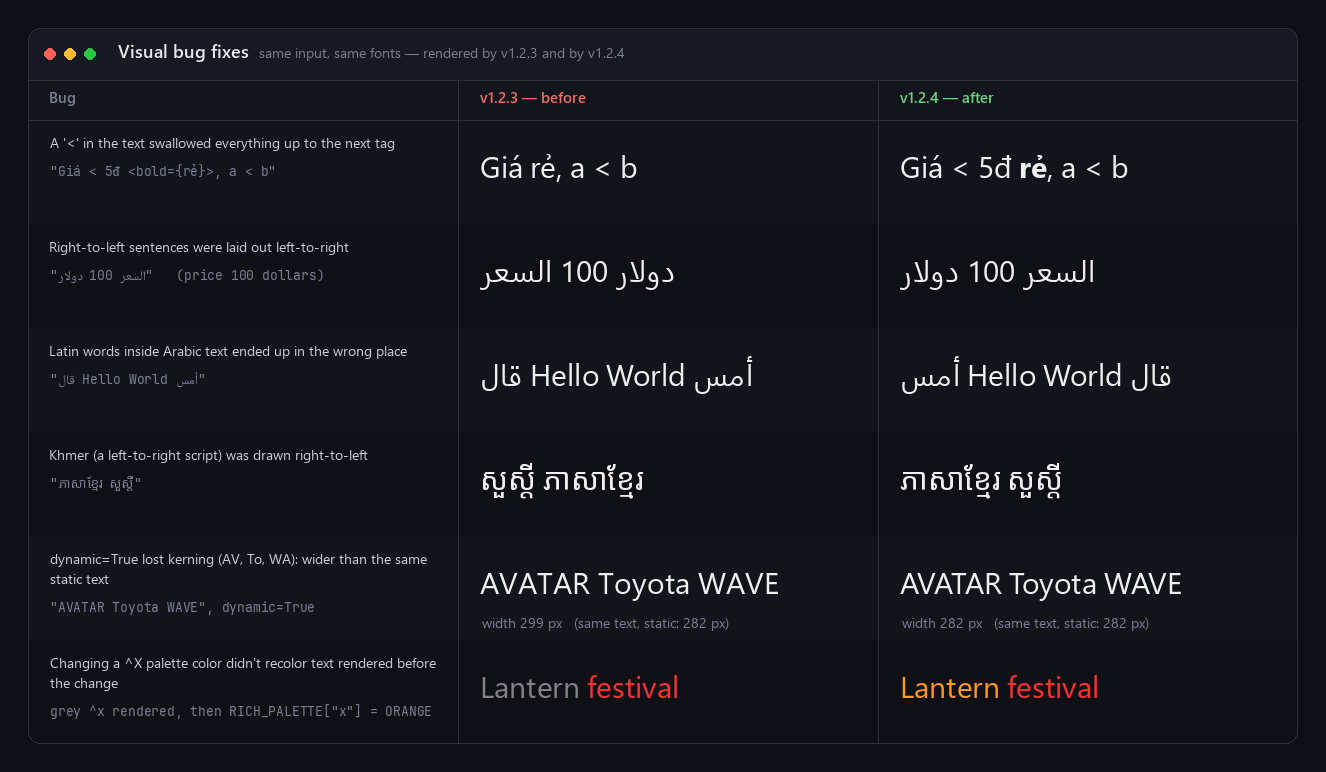
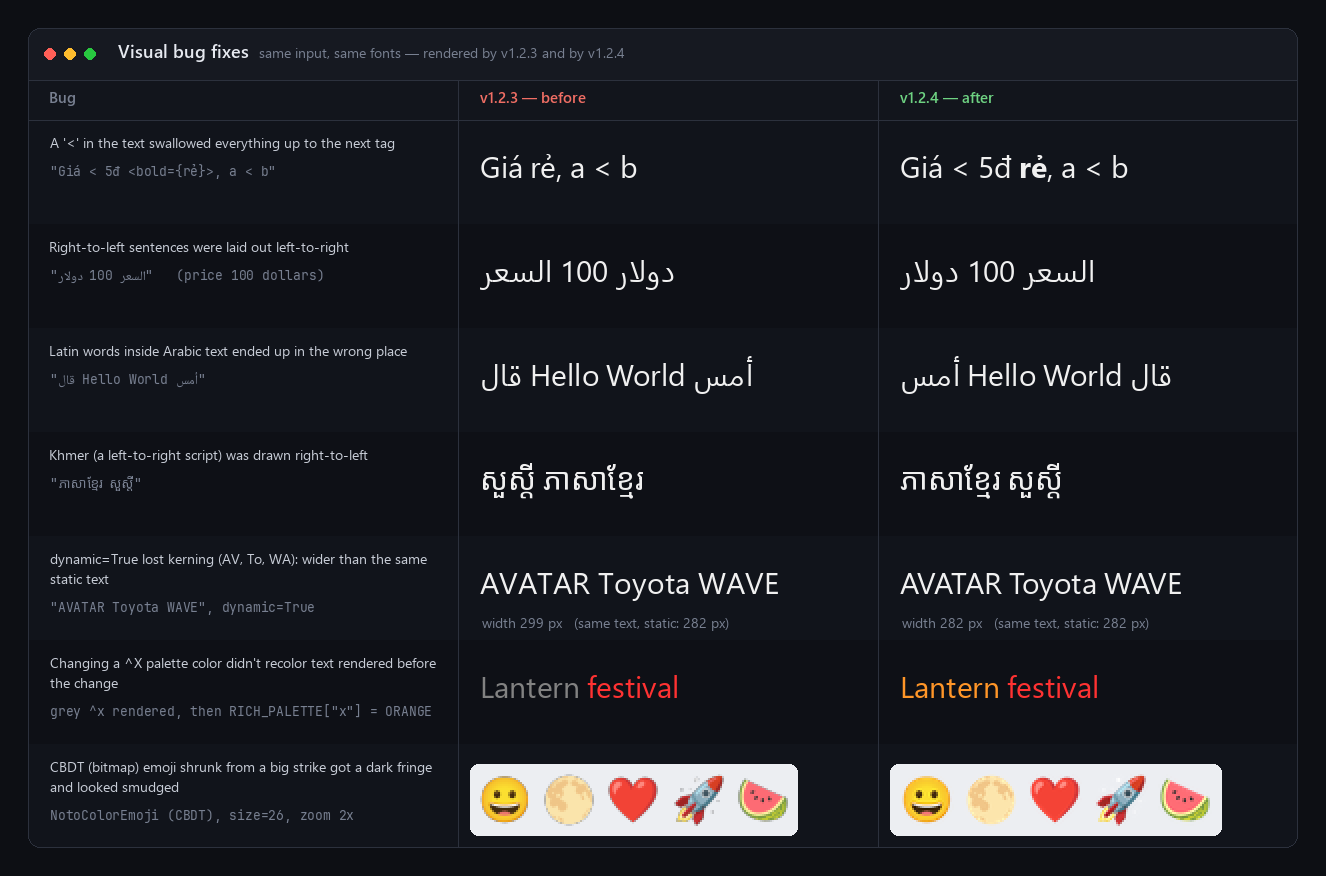
CBDT emoji: shrink strikes with Lanczos-3 on premultiplied alpha (no dark fringe)

diff --git a/dynamic_font/cbdt_render.c b/dynamic_font/cbdt_render.c
@@ -1,8 +1,122 @@
 #include "cbdt_render.h"
+#include <math.h>
 #include <stdlib.h>
 #include <string.h>
 
 #define FT_PIXEL_MODE_BGRA_VALUE 7
+#define CBDT_PI 3.14159265358979323846
+
+/* Lanczos-3 kernel. */
+static double lanczos3(double x) {
+    double px;
+    if (x < 0) x = -x;
+    if (x < 1e-8) return 1.0;
+    if (x >= 3.0) return 0.0;
+    px = CBDT_PI * x;
+    return 3.0 * sin(px) * sin(px / 3.0) / (px * px);
+}
+
+/* Lanczos-3 weights for resampling n_src samples to n_dst: output i reads
+ * source samples idx[i*taps .. +taps) with normalised weights wt[...]. When
+ * shrinking, the kernel is widened by the shrink factor so every source pixel
+ * is averaged in (no aliasing); edge samples are clamped. The table depends
+ * only on the two lengths, so it is built once per axis, not per row. */
+typedef struct { int taps; int* idx; float* wt; } LanczosTable;
+
+static int lanczos_table(int n_src, int n_dst, LanczosTable* t) {
+    double scale = (double)n_dst / (double)n_src;
+    double fs = scale < 1.0 ? 1.0 / scale : 1.0;
+    double support = 3.0 * fs;
+    int i, j;
+    t->taps = (int)ceil(support) * 2 + 2;
+    t->idx = (int*)malloc((size_t)n_dst * t->taps * sizeof(int));
+    t->wt = (float*)malloc((size_t)n_dst * t->taps * sizeof(float));
+    if (!t->idx || !t->wt) { free(t->idx); free(t->wt); return 0; }
+    for (i = 0; i < n_dst; i++) {
+        double center = (i + 0.5) / scale - 0.5, wsum = 0;
+        int lo = (int)floor(center - support);
+        int* idx = t->idx + (size_t)i * t->taps;
+        float* wt = t->wt + (size_t)i * t->taps;
+        for (j = 0; j < t->taps; j++) {
+            int s = lo + j;
+            double w = lanczos3((s - center) / fs);
+            idx[j] = s < 0 ? 0 : (s >= n_src ? n_src - 1 : s);
+            wt[j] = (float)w;
+            wsum += w;
+        }
+        if (wsum != 0.0)
+            for (j = 0; j < t->taps; j++) wt[j] = (float)(wt[j] / wsum);
+    }
+    return 1;
+}
+
+/* One separable pass over premultiplied float RGBA: `src` samples (stride
+ * `src_step` floats, 4 channels each) become t's n_dst samples of `dst`
+ * (stride `dst_step`). */
+static void lanczos_pass(const LanczosTable* t, int n_dst, const float* src, int src_step,
+                         float* dst, int dst_step) {
+    int i, j;
+    for (i = 0; i < n_dst; i++) {
+        const int* idx = t->idx + (size_t)i * t->taps;
+        const float* wt = t->wt + (size_t)i * t->taps;
+        float r = 0, g = 0, b = 0, a = 0;
+        for (j = 0; j < t->taps; j++) {
+            const float* p = src + (size_t)idx[j] * src_step;
+            float w = wt[j];
+            r += w * p[0]; g += w * p[1]; b += w * p[2]; a += w * p[3];
+        }
+        dst[(size_t)i * dst_step + 0] = r; dst[(size_t)i * dst_step + 1] = g;
+        dst[(size_t)i * dst_step + 2] = b; dst[(size_t)i * dst_step + 3] = a;
+    }
+}
+
+/* Premultiplied BGRA (FreeType's CBDT output) -> resized, straight RGBA.
+ * Resampling has to happen while the alpha is still premultiplied: averaging
+ * straight-alpha pixels pulls the black of the transparent surroundings into
+ * the edge colors and leaves a dark fringe around every emoji. */
+static unsigned char* bgra_premul_resize(const FT_Bitmap* bmp, int dw, int dh) {
+    int sw = (int)bmp->width, sh = (int)bmp->rows, x, y, k;
+    float *src = NULL, *tmp = NULL, *dst = NULL;
+    unsigned char* out = NULL;
+    LanczosTable tx = {0, NULL, NULL}, ty = {0, NULL, NULL};
+
+    src = (float*)malloc((size_t)sw * sh * 4 * sizeof(float));
+    tmp = (float*)malloc((size_t)dw * sh * 4 * sizeof(float));
+    dst = (float*)malloc((size_t)dw * dh * 4 * sizeof(float));
+    out = (unsigned char*)malloc((size_t)dw * dh * 4);
+    if (!src || !tmp || !dst || !out || !lanczos_table(sw, dw, &tx) || !lanczos_table(sh, dh, &ty)) {
+        free(src); free(tmp); free(dst); free(out);
+        free(tx.idx); free(tx.wt); free(ty.idx); free(ty.wt);
+        return NULL;
+    }
+
+    for (y = 0; y < sh; y++) {
+        const unsigned char* row = bmp->buffer + y * bmp->pitch;
+        for (x = 0; x < sw; x++) {
+            float* p = src + ((size_t)y * sw + x) * 4;
+            p[0] = row[x * 4 + 2]; p[1] = row[x * 4 + 1]; p[2] = row[x * 4 + 0]; p[3] = row[x * 4 + 3];
+        }
+    }
+    for (y = 0; y < sh; y++)                                 /* horizontal */
+        lanczos_pass(&tx, dw, src + (size_t)y * sw * 4, 4, tmp + (size_t)y * dw * 4, 4);
+    for (x = 0; x < dw; x++)                                 /* vertical */
+        lanczos_pass(&ty, dh, tmp + (size_t)x * 4, dw * 4, dst + (size_t)x * 4, dw * 4);
+    free(tx.idx); free(tx.wt); free(ty.idx); free(ty.wt);
+
+    for (y = 0; y < dh * dw; y++) {
+        float* p = dst + (size_t)y * 4;
+        double a = p[3] < 0 ? 0 : (p[3] > 255 ? 255 : p[3]);
+        unsigned char* o = out + (size_t)y * 4;
+        if (a < 0.5) { o[0] = o[1] = o[2] = o[3] = 0; continue; }
+        for (k = 0; k < 3; k++) {
+            double c = p[k] < 0 ? 0 : (p[k] > a ? a : p[k]);  /* Lanczos can overshoot */
+            o[k] = (unsigned char)(c * 255.0 / a + 0.5);
+        }
+        o[3] = (unsigned char)(a + 0.5);
+    }
+    free(src); free(tmp); free(dst);
+    return out;
+}
 
 int render_cbdt_glyph(
     FT_Face face,
@@ -40,8 +154,7 @@ int render_cbdt_glyph(
     if (face->num_fixed_sizes <= 0) return 5;
 
     /* Prefer the SMALLEST strike that is >= requested_size, so the
-     * caller's later smoothscale step (see the .pyx render_cbdt_*
-     * functions) always SHRINKS the bitmap rather than enlarging it.
+     * resize step below always SHRINKS the bitmap rather than enlarging it.
      * Downscaling a bitmap looks crisp (effectively averaging existing
      * detail down); upscaling has to invent pixels that were never
      * there and always looks soft/blurry by comparison — this is why
@@ -97,6 +210,25 @@ int render_cbdt_glyph(
 
     w = (int)bmp->width;
     h = (int)bmp->rows;
+
+    /* The strike's bitmap height rarely matches requested_size. Resize only
+     * when the mismatch is over 15% (a multi-strike font like Apple Color
+     * Emoji usually has a strike close enough to use 1:1, which is always
+     * the crispest); otherwise shrink it here, before un-premultiplying. */
+    if (requested_size > 0 && abs(h - requested_size) > (int)(requested_size * 0.15)) {
+        double scale = (double)requested_size / (double)h;
+        int dw = (int)(w * scale), dh = (int)(h * scale);
+        if (dw < 1) dw = 1;
+        if (dh < 1) dh = 1;
+        canvas = bgra_premul_resize(bmp, dw, dh);
+        if (!canvas) return 4;
+        *out_rgba = canvas;
+        *out_w = dw;
+        *out_h = dh;
+        *out_top = (int)(slot->bitmap_top * scale);
+        *out_left = (int)(slot->bitmap_left * scale);
+        return 0;
+    }
 
     canvas = (unsigned char*)malloc((size_t)(w * h * 4));
     if (!canvas) return 4;

diff --git a/docs/v1.2.4/make_before_after.py b/docs/v1.2.4/make_before_after.py
@@ -1,11 +1,14 @@
 """Makes 07_fixes_before_after.png: the same input rendered by v1.2.3 and by
 v1.2.4, side by side, for the bug fixes that change what gets drawn.
 
-    python make_before_after.py --old DIR [--new DIR] [--out DIR]
+    python make_before_after.py --old DIR [--new DIR] [--cbdt FONT] [--out DIR]
 
---old DIR   a folder containing the v1.2.3 dynamic_font (e.g. a v1.2.3.x wheel
-            unzipped there, or its site-packages).
---new DIR   the v1.2.4 dynamic_font (default: the installed one).
+--old DIR    a folder containing the v1.2.3 dynamic_font (e.g. a v1.2.3.x wheel
+             unzipped there, or its site-packages).
+--new DIR    the v1.2.4 dynamic_font (default: the installed one).
+--cbdt FONT  a CBDT (PNG bitmap) color emoji font, e.g. NotoColorEmoji.ttf from
+             github.com/googlefonts/noto-emoji (the one Linux distributions
+             ship). Adds the CBDT emoji row; without it that row is left out.
 
 Each engine renders every case in its own Python process (two versions of
 the same module can't be imported side by side); this process then lays the
@@ -30,7 +33,10 @@ CASES = {
     "kern_sta": ("AVATAR Toyota WAVE", {}),
     # rendered with ^x = grey, then ^x changed to orange and rendered again (see render_cases)
     "palette":  ("^xLantern ^1festival", {}),
+    # rendered with the --cbdt font as emoji_path, at 26 px, shown 2x (see render_cases)
+    "cbdt":     ("😀🌕❤🚀🍉", {}),
 }
+CBDT_SIZE, CBDT_ZOOM = 26, 2
 ROWS = [
     ("lt_sign", "A '<' in the text swallowed everything up to the next tag", '"Giá < 5đ <bold={rẻ}>, a < b"'),
     ("bidi1", "Right-to-left sentences were laid out left-to-right", '"السعر 100 دولار"   (price 100 dollars)'),
@@ -40,10 +46,12 @@ ROWS = [
      '"AVATAR Toyota WAVE", dynamic=True'),
     ("palette", "Changing a ^X palette color didn't recolor text rendered before the change",
      'grey ^x rendered, then RICH_PALETTE["x"] = ORANGE'),
+    ("cbdt", "CBDT (bitmap) emoji shrunk from a big strike got a dark fringe and looked smudged",
+     f'NotoColorEmoji (CBDT), size={CBDT_SIZE}, zoom {CBDT_ZOOM}x'),
 ]
 
 
-def render_cases(engine_dir, out_dir, fallback_dir):
+def render_cases(engine_dir, out_dir, fallback_dir, cbdt_font):
     """Runs in the child process: renders every case with the engine in engine_dir."""
     sys.path.insert(0, engine_dir)
     os.environ.setdefault("SDL_VIDEODRIVER", "dummy")
@@ -58,6 +66,12 @@ def render_cases(engine_dir, out_dir, fallback_dir):
     if palette is None:
         palette = df._core.RICH_PALETTE
     for name, (text, kw) in CASES.items():
+        if name == "cbdt":
+            if cbdt_font:
+                e = df.DynamicFont("Segoe UI", fallback_name=os.path.join(fallback_dir, "NotoSansCJK-Regular.ttc"),
+                                   fallback_dir=fallback_dir, emoji_path=cbdt_font)
+                pygame.image.save(e.render(text, CBDT_SIZE), os.path.join(out_dir, name + ".png"))
+            continue
         if name == "palette":
             palette["x"] = (130, 130, 130)                   # grey
             f.render(text, 30, (240, 240, 240), **kw)        # drawn (and cached) once...
@@ -68,9 +82,9 @@ def render_cases(engine_dir, out_dir, fallback_dir):
 
 def main():
     ap = argparse.ArgumentParser()
-    ap.add_argument("--old", required=True); ap.add_argument("--new")
+    ap.add_argument("--old", required=True); ap.add_argument("--new"); ap.add_argument("--cbdt", default="")
     ap.add_argument("--out", default=HERE)
-    ap.add_argument("--_render", nargs=3, help=argparse.SUPPRESS)
+    ap.add_argument("--_render", nargs=4, help=argparse.SUPPRESS)
     args = ap.parse_args()
     if args._render:
         render_cases(*args._render)
@@ -92,7 +106,8 @@ def main():
     for tag, engine in (("old", args.old), ("new", new_dir)):
         dirs[tag] = os.path.join(tmp, tag); os.makedirs(dirs[tag])
         subprocess.run([sys.executable, os.path.abspath(__file__), "--old", args.old,
-                        "--_render", engine, dirs[tag], fallback_dir], check=True)
+                        "--_render", engine, dirs[tag], fallback_dir, args.cbdt], check=True)
+    rows = [r for r in ROWS if r[0] != "cbdt" or args.cbdt]
 
     # ---- the card
     BG, CARD, EDGE = (13, 15, 20), (22, 25, 33), (44, 49, 61)
@@ -117,7 +132,7 @@ def main():
 
     LABEL_W, COL_W, ROW_H, PAD = 430, 420, 104, 28
     W = PAD * 2 + LABEL_W + COL_W * 2
-    H = PAD * 2 + 52 + 40 + ROW_H * len(ROWS)
+    H = PAD * 2 + 52 + 40 + ROW_H * len(rows)
     img = pygame.Surface((W, H)); img.fill(BG)
     rect = pygame.Rect(PAD, PAD, W - PAD * 2, H - PAD * 2)
     pygame.draw.rect(img, CARD, rect, border_radius=12)
@@ -133,7 +148,7 @@ def main():
     UIB2.render_to(img, (rect.x + 22, hy + 12), "Bug", MUTED)
     UIB2.render_to(img, (x_old + 22, hy + 12), "v1.2.3 — before", OLD_C)
     UIB2.render_to(img, (x_new + 22, hy + 12), "v1.2.4 — after", NEW_C)
-    for i, (name, desc, code) in enumerate(ROWS):
+    for i, (name, desc, code) in enumerate(rows):
         y = hy + 40 + i * ROW_H
         pygame.draw.rect(img, ROW_A if i % 2 == 0 else ROW_B, (rect.x + 1, y, rect.w - 2, ROW_H))
         words, line, ly = desc.split(), "", y + 18   # description, wrapped
@@ -147,6 +162,11 @@ def main():
         img.blit(code_text(code), (rect.x + 22, ly + 22))
         for x0, tag in ((x_old, "old"), (x_new, "new")):
             s = pygame.image.load(os.path.join(dirs[tag], name + ".png")).convert_alpha()
+            if name == "cbdt":   # nearest-neighbour zoom on a light tile: the fringe shows on light backgrounds
+                s = s.subsurface(s.get_bounding_rect())
+                s = pygame.transform.scale(s, (s.get_width() * CBDT_ZOOM, s.get_height() * CBDT_ZOOM))
+                pygame.draw.rect(img, (236, 238, 242), (x0 + 12, y + (ROW_H - s.get_height()) // 2 - 6,
+                                                        s.get_width() + 20, s.get_height() + 20), border_radius=8)
             img.blit(s, (x0 + 22, y + (ROW_H - s.get_height()) // 2 + 4))
             if name == "kern_dyn":
                 static_w = pygame.image.load(os.path.join(dirs[tag], "kern_sta.png")).get_width()

diff --git a/dynamic_font/cbdt_render.h b/dynamic_font/cbdt_render.h
@@ -40,14 +40,18 @@ extern "C" {
  *                   that don't closely match any embedded strike.
  * out_rgba        : (output) RGBA buffer allocated via malloc() by this
  *                   function — CALLER MUST free() it after use.
- * out_w, out_h    : (output) the actual bitmap dimensions (may differ
- *                   from requested_size — the caller is responsible for
- *                   scaling the resulting surface if exact-size output
- *                   is required).
+ * out_w, out_h    : (output) the bitmap dimensions. When the chosen
+ *                   strike's height is more than 15% away from
+ *                   requested_size, the bitmap has already been resized
+ *                   so its height is requested_size (Lanczos-3, done on
+ *                   premultiplied alpha — no dark fringe); otherwise it
+ *                   is the strike bitmap 1:1.
  * out_top         : (output) device-pixel distance from the text baseline
- *                   UP to the TOP row of out_rgba (FreeType's bitmap_top).
+ *                   UP to the TOP row of out_rgba (FreeType's bitmap_top,
+ *                   scaled with the bitmap).
  * out_left        : (output) device-pixel distance from the glyph's pen
- *                   position to the LEFT edge of out_rgba (bitmap_left).
+ *                   position to the LEFT edge of out_rgba (bitmap_left,
+ *                   scaled with the bitmap).
  *
  * Returns: 0 on success, non-zero on error:
  *   1 = FT_Load_Glyph failed (font has no CBDT, or PNG support missing —

diff --git a/CHANGELOG.md b/CHANGELOG.md
@@ -143,7 +143,7 @@ python -m dynamic_font -bitmapviewer    # see every glyph of a .dfbmp file
 
 ## 🐞 Bug Fixes
 
-The six fixes below change what gets drawn — here is the same input rendered
+The seven fixes below change what gets drawn — here is the same input rendered
 by v1.2.3 and by v1.2.4:
 
 ![Visual bug fixes](docs/v1.2.4/07_fixes_before_after.png)
@@ -161,6 +161,12 @@ by v1.2.3 and by v1.2.4:
 - **Changing a `^X` palette color didn't recolor text already rendered** —
   static text kept the colors it was first drawn with. Editing or replacing
   `RICH_PALETTE` now takes effect on the next `render()`.
+- **Bitmap (CBDT) color emoji looked smudged when shrunk.** Fonts such as the
+  Noto Color Emoji that Linux ships carry one large bitmap per emoji (109
+  ppem); shrinking it to text size averaged in the black of the transparent
+  surroundings and left a dark fringe. The bitmap is now shrunk in C with a
+  Lanczos-3 filter on premultiplied alpha — clean edges, and as sharp as a
+  bitmap that size allows.
 - Text with many script / color changes (a run per word) could silently drop
   runs past an internal limit.
 - A missing fallback font crashed `render()`; it now falls back cleanly.

diff --git a/docs/v1.2.4/README.md b/docs/v1.2.4/README.md
@@ -8,7 +8,7 @@ pygame-ce, the v1.2.4 `dynamic_font` installed).
 | Script | Makes |
 | ----- | ----- |
 | `make_demos.py` | `00_banner.png` … `06_bitmap_font.png` — the code on the left of each card is what renders the text on its right |
-| `make_before_after.py --old DIR` | `07_fixes_before_after.png` — the same input rendered by v1.2.3 (`DIR`) and by v1.2.4 |
+| `make_before_after.py --old DIR --cbdt FONT` | `07_fixes_before_after.png` — the same input rendered by v1.2.3 (`DIR`) and by v1.2.4; `FONT` is a CBDT emoji font for the emoji row (`NotoColorEmoji.ttf` from [googlefonts/noto-emoji](https://github.com/googlefonts/noto-emoji)) |
 | `measure_bidi.py [--engine DIR]` | the right-to-left results (v1.2.3: 3 of 8, v1.2.4: 8 of 8) |
 | `benchmark.py [--engine DIR]` | the performance table |
 
